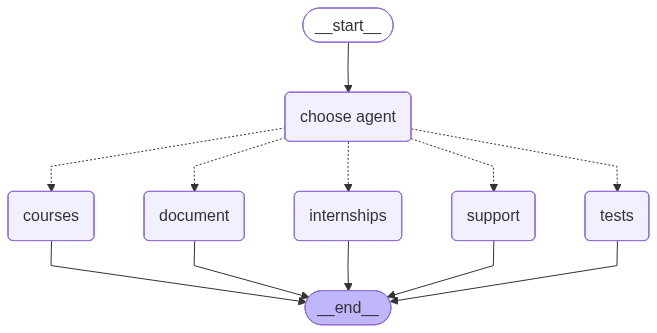
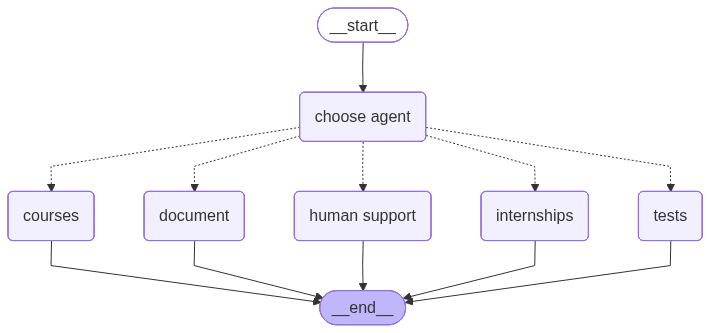
docs: readme, instructions, requirements

diff --git a/graph.py b/graph.py
@@ -36,7 +36,7 @@ def admissions_officier(state: RouterState) -> RouterState:
 
 # Edge
 def route_question(state: RouterState) \
-    -> Literal["document", "tests", "courses", "internships", "support"]:
+    -> Literal["document", "tests", "courses", "internships", "human support"]:
     cat = state['category']
     if cat == 'document submission':
         return "document"
@@ -47,7 +47,7 @@ def route_question(state: RouterState) \
     elif cat == 'internships':
         return "internships"
     elif cat == 'other':
-        return "support"
+        return "human support"
     else:
         print(cat)
         return "support"
@@ -60,7 +60,7 @@ builder.add_node("document", document_agent)
 builder.add_node("tests", tests_agent)
 builder.add_node("courses", courses_agent)
 builder.add_node("internships", internships_agent)
-builder.add_node("support", admissions_officier)
+builder.add_node("human support", admissions_officier)
 
 # Edges
 builder.add_edge(START, "choose agent")
@@ -69,7 +69,7 @@ builder.add_edge("document", END)
 builder.add_edge("tests", END)
 builder.add_edge("courses", END)
 builder.add_edge("internships", END)
-builder.add_edge("support", END)
+builder.add_edge("human support", END)
 
 router_graph = builder.compile()
 
@@ -78,4 +78,3 @@ if __name__ == "__main__":
     graph_vis = router_graph.get_graph()
     with open("img/graph.jpg", "wb") as f:
         f.write(graph_vis.draw_mermaid_png())
-    print(graph_vis.draw_ascii())

diff --git a/main.py b/main.py
@@ -2,8 +2,8 @@ from graph import router_graph
 
 while True:
     question = input("Enter your question: ")
-    if question.lower() == "stop":
+    if question.lower() in ("stop", "стоп"):
         break
     ans = router_graph.invoke({"question": question})
-    
+
 print("end routing")

diff --git a/README.MD b/README.MD
@@ -14,10 +14,35 @@ Each question group can have its own AI agent implemented.
 This project is responsible for routing requests to the appropriate parts of the system.
 
 ## Project struct
-- `main.py` : main program
+- `main.py` : main loop
 - `router.py` : LLM router implementation with LangChain 
 - `graph.py` :  application graph
 - `.env` : enviroment varibales 
 - `requirements.txt` : requirements for project launch
-- `` : 
-- `` : 
+- **`img`**
+    - `graph.jpg` : graph visualisation
+
+## Implemented functionality
+- Question Classification
+- Question Forwarding to Agents (template)
+- Graph Visualization
+
+## Graph
+After receiving a question from a user, the request is sent to the router, then, depending on the category of the question, it is transferred to one of the AI agents (documents, courses, tests, inernships) or to an admissions officer (human support).
+
+![](img/graph.jpg)
+
+## Launhing
+1. **create venv**
+```
+python -m venv venv
+.\venv\Scripts\activate
+pip install -r requirements.txt
+```
+
+2. Insert your mistral api key into .env
+
+3. **run router**
+```
+python main.py
+```
